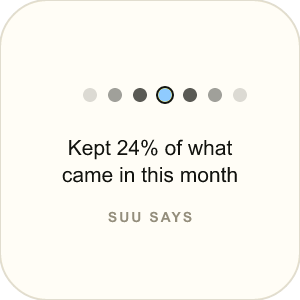
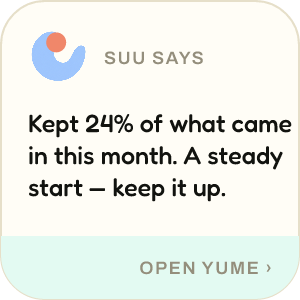
Calmer motion, cleaner meters and groups, new widget previews
- Content fades in once per screen instead of blinking on every reload.
- Today and budget meters: a soft filled track with a rounded fill.
- Activity: an open group's entries match the page (note, account,
  category dot, hairlines) instead of a grey band of account names.
- Reports: the Overview / Categories / Trends bar is removed.
- Widget picker previews redrawn in the Home style; the Suu widget's
  line now uses the full width.

diff --git a/app/(tabs)/reports.tsx b/app/(tabs)/reports.tsx
@@ -1,12 +1,5 @@
 import { useCallback, useEffect, useMemo, useRef, useState } from 'react';
-import {
-  View,
-  ScrollView,
-  Pressable,
-  LayoutChangeEvent,
-  NativeScrollEvent,
-  NativeSyntheticEvent,
-} from 'react-native';
+import { View, ScrollView, Pressable, LayoutChangeEvent } from 'react-native';
 import { Text } from '@/components/Text';
 import { router, useFocusEffect, useLocalSearchParams } from 'expo-router';
 import { useSafeAreaInsets } from 'react-native-safe-area-context';
@@ -42,7 +35,6 @@ import { parseLocalIsoDate, toLocalIsoDate, isIsoDate } from '@/lib/date';
 import { theme } from '@/constants/theme';
 import { ReportsSkeleton } from '@/features/reports/ReportsSkeleton';
 import { PeriodRow } from '@/features/reports/PeriodRow';
-import { JumpBar, ReportSection } from '@/features/reports/JumpBar';
 import { HeatmapCard } from '@/features/reports/HeatmapCard';
 import { StoryCards } from '@/features/reports/StoryCards';
 import { CategoryMosaic } from '@/features/reports/CategoryMosaic';
@@ -60,6 +52,7 @@ import {
   patternFacts,
   quietDays,
   buildStoryCards,
+  StoryTarget,
 } from '@/features/reports/reportsInsights';
 import { errorMessage } from '@/lib/errorMessage';
 import { withPressed } from '@/lib/pressed';
@@ -128,13 +121,12 @@ export default function ReportsScreen() {
   // months never leaves a stale month's list expanded.
   const [catExpanded, setCatExpanded] = useState(false);
 
-  // The jump bar below (Overview / Categories / Trends) — `sectionY` is
+  // Where each section starts, for the story cards that jump to one —
   // filled in by each section's own onLayout, not measured up front, since
   // heights here depend on real data (how many categories, whether the
   // moon card even renders this period).
   const scrollRef = useRef<ScrollView>(null);
   const sectionY = useRef<Record<string, number>>({});
-  const [activeSection, setActiveSection] = useState<ReportSection>('overview');
   // react-hooks/refs misreads this: calling onSectionLayout(key) in render
   // only *builds* the onLayout handler — the ref is written inside it, when
   // layout fires, never during render.
@@ -142,34 +134,8 @@ export default function ReportsScreen() {
     // eslint-disable-next-line react-hooks/refs
     sectionY.current[key] = e.nativeEvent.layout.y;
   };
-  // A tap-to-jump animates the scroll over ~300ms, and onScroll keeps firing
-  // throughout that animation with every intermediate position it passes
-  // through on the way — left unguarded, the chip you just tapped would
-  // flicker through whichever section happens to scroll by mid-animation
-  // before landing on the right one. This suppresses onScroll's own
-  // recompute for as long as a jump is in flight, so the tapped chip stays
-  // lit the whole time instead of visibly flickering through the others.
-  const jumpingRef = useRef(false);
-  const jumpTo = (key: ReportSection) => {
-    jumpingRef.current = true;
-    setActiveSection(key);
+  const jumpTo = (key: StoryTarget) => {
     scrollRef.current?.scrollTo({ y: Math.max(0, (sectionY.current[key] ?? 0) - 8), animated: true });
-    setTimeout(() => {
-      jumpingRef.current = false;
-    }, 500);
-  };
-  // Whichever section's top has scrolled past (with a little lead-in so the
-  // switch feels like it happens as that section arrives, not once it's
-  // already filled the screen) is the active one — checked in layout order
-  // so a section further down never wins over one still above it.
-  const onScroll = (e: NativeSyntheticEvent<NativeScrollEvent>) => {
-    if (jumpingRef.current) return;
-    const y = e.nativeEvent.contentOffset.y;
-    let current: ReportSection = 'overview';
-    for (const key of ['overview', 'categories', 'trends'] as const) {
-      if (y >= (sectionY.current[key] ?? Infinity) - 60) current = key;
-    }
-    setActiveSection(current);
   };
 
   // Only the most recent load may write state — stepping periods quickly
@@ -227,17 +193,11 @@ export default function ReportsScreen() {
 
   const catById = useMemo(() => new Map(categories.map((c) => [c.id, c])), [categories]);
 
-  // Pinned (outside the ScrollView, not scrolled away) rather than the
-  // jump bar living inline in the scrolling content — it stays reachable
-  // and keeps showing which section you're in no matter how far down
-  // you've scrolled, not just at the top of the page.
+  // Pinned outside the ScrollView, so the period stays in reach however far down you scroll.
   const header = (
     <>
       <AppHeader title="Reports" />
       <PeriodRow cursor={cursor} onChange={stepCursor} />
-      {comparison && comparison.current.expenseMinor > 0 && (
-        <JumpBar active={activeSection} onJump={jumpTo} />
-      )}
     </>
   );
 
@@ -331,8 +291,6 @@ export default function ReportsScreen() {
       {header}
       <ScrollView
         ref={scrollRef}
-        onScroll={onScroll}
-        scrollEventThrottle={32}
         contentContainerStyle={{
           paddingHorizontal: 20,
           paddingBottom: theme.layout.tabScreenScrollPad + insets.bottom,

diff --git a/src/widgets/SuuWidget.tsx b/src/widgets/SuuWidget.tsx
@@ -3,15 +3,18 @@ import { WidgetShell, WidgetLabel } from './WidgetShell';
 import { widgetColor, widgetTint, asWidgetColor, WIDGET_FONT, WIDGET_RADIUS } from './widgetTheme';
 import type { SuuWidgetData } from './data';
 
-const SUU = 40;
+const SUU = 30;
 const DOT = Math.round(SUU * 0.33);
 
 /**
  * "Suu Check-in" — the 2×2 widget (the Home A widgets sign-off): Suu itself
  * — the same ring image and one theme-coloured dot the app draws (see
- * SuuIllustration) — beside Suu's line (`suuLine()`: a savings nudge, a
- * spend-up warning, or a top-growing category), over a footer in the pack's
- * second colour, like the Suu strip on Home's month card. Taps open Home.
+ * SuuIllustration) — with "Suu says" beside it, then Suu's line
+ * (`suuLine()`: a savings nudge, a spend-up warning, or a top-growing
+ * category) across the widget's full width, over a footer in the pack's
+ * second colour, like the Suu strip on Home's month card. The line gets the
+ * whole width because beside Suu, in a 2×2, it only had room for a word or
+ * two per line. Taps open Home.
  */
 export function SuuWidget({ line, dot, secondary }: SuuWidgetData) {
   return (
@@ -21,44 +24,46 @@ export function SuuWidget({ line, dot, secondary }: SuuWidgetData) {
           flex: 1,
           height: 0,
           width: 'match_parent',
-          flexDirection: 'row',
+          flexDirection: 'column',
           padding: 14,
           paddingBottom: 8,
         }}
       >
-        <OverlapWidget style={{ width: SUU, height: SUU }}>
-          <ImageWidget image={require('../../assets/suu-ring.png')} imageWidth={SUU} imageHeight={SUU} />
-          <FlexWidget
-            style={{
-              width: DOT,
-              height: DOT,
-              borderRadius: DOT / 2,
-              backgroundColor: asWidgetColor(dot),
-              marginLeft: Math.round(SUU * 0.47 - DOT / 2),
-              marginTop: Math.round(SUU * 0.24 - DOT / 2),
-            }}
-          />
-        </OverlapWidget>
-        <FlexWidget style={{ width: 9, height: 1 }} />
-        <FlexWidget style={{ flex: 1, width: 0 }}>
-          <TextWidget
-            text={line.text}
-            maxLines={5}
-            truncate="END"
-            style={{
-              fontFamily: WIDGET_FONT.roundedMedium,
-              fontSize: 12.5,
-              lineHeight: 16,
-              color: widgetColor.ink,
-            }}
-          />
+        <FlexWidget style={{ flexDirection: 'row', alignItems: 'center' }}>
+          <OverlapWidget style={{ width: SUU, height: SUU }}>
+            <ImageWidget image={require('../../assets/suu-ring.png')} imageWidth={SUU} imageHeight={SUU} />
+            <FlexWidget
+              style={{
+                width: DOT,
+                height: DOT,
+                borderRadius: DOT / 2,
+                backgroundColor: asWidgetColor(dot),
+                marginLeft: Math.round(SUU * 0.47 - DOT / 2),
+                marginTop: Math.round(SUU * 0.24 - DOT / 2),
+              }}
+            />
+          </OverlapWidget>
+          <FlexWidget style={{ width: 8, height: 1 }} />
+          <WidgetLabel text="Suu says" />
         </FlexWidget>
+        <TextWidget
+          text={line.text}
+          maxLines={4}
+          truncate="END"
+          style={{
+            fontFamily: WIDGET_FONT.roundedMedium,
+            fontSize: 12.5,
+            lineHeight: 16,
+            color: widgetColor.ink,
+            marginTop: 8,
+          }}
+        />
       </FlexWidget>
       <FlexWidget
         style={{
           width: 'match_parent',
           flexDirection: 'row',
-          justifyContent: 'space-between',
+          justifyContent: 'flex-end',
           alignItems: 'center',
           paddingHorizontal: 14,
           paddingVertical: 8,
@@ -67,8 +72,7 @@ export function SuuWidget({ line, dot, secondary }: SuuWidgetData) {
           borderBottomRightRadius: WIDGET_RADIUS - 1,
         }}
       >
-        <WidgetLabel text="Suu says" color={widgetColor.inkSoft} />
-        <WidgetLabel text="Open ›" color={widgetColor.inkSoft} />
+        <WidgetLabel text="Open Yume ›" color={widgetColor.inkSoft} />
       </FlexWidget>
     </WidgetShell>
   );

diff --git a/src/features/transactions/TimelineDay.tsx b/src/features/transactions/TimelineDay.tsx
@@ -150,20 +150,32 @@ export function TimelineDay({
           <Amount type={type} minor={line.totalMinor} />
         </Pressable>
         {open && (
-          <View style={styles.subList}>
+          <View>
             {line.items.map((tx) => {
-              const label = isSplit ? categoryName(tx.categoryId) : tx.note || accountName(tx.accountId);
+              // A split's part is its category; a stack's entry is its note (they
+              // all share the category already named above), with its account under it.
+              const partCat = isSplit ? categoriesById.get(tx.categoryId ?? '') : cat;
+              const label = isSplit ? categoryName(tx.categoryId) : tx.note || 'No note';
               return (
-                <MovingRow key={tx.id}>
+                <MovingRow key={tx.id} style={styles.divider}>
                   <Pressable
                     onPress={() => onPressTx(tx)}
                     style={withPressed(styles.subLine)}
                     accessibilityRole="button"
                     accessibilityLabel={`${isSplit ? label : name}${!isSplit && tx.note ? `, ${tx.note}` : ''}, ${formatMoney(tx.amountMinor)}`}
                   >
-                    <Text style={styles.subName} numberOfLines={1}>
-                      {label}
-                    </Text>
+                    <View
+                      style={[styles.subDot, { backgroundColor: partCat?.color ?? theme.colors.borderSoft }]}
+                    />
+                    <View style={styles.mid}>
+                      <Text style={[styles.name, !isSplit && !tx.note && styles.subNoNote]} numberOfLines={1}>
+                        {label}
+                      </Text>
+                      <Text style={styles.sub} numberOfLines={1}>
+                        {isSplit && tx.note ? `${tx.note} · ` : ''}
+                        {accountName(tx.accountId)}
+                      </Text>
+                    </View>
                     <Amount type={tx.type} minor={tx.amountMinor} />
                   </Pressable>
                 </MovingRow>
@@ -271,16 +283,18 @@ const styles = StyleSheet.create({
   amount: { fontFamily: theme.font.monoBold, fontSize: 12.5, color: theme.colors.textPrimary },
   income: { color: theme.colors.income },
   expense: { color: theme.colors.expense },
-  subList: { backgroundColor: theme.colors.surfaceAlt },
+  // An open stack's entries: the same card, hairlines and text as every other
+  // line, each with a dot in its category's colour under the stack's icon.
   subLine: {
     flexDirection: 'row',
     alignItems: 'center',
     gap: 10,
-    // Lines up with the stack's name: row padding + icon + gap.
-    paddingLeft: 14 + 30 + 10,
+    // The dot centred under the stack's 30px icon: row padding + (30 − 8) / 2.
+    paddingLeft: 14 + 11,
     paddingRight: 14,
     paddingVertical: 8,
-    minHeight: 36,
+    minHeight: 48,
   },
-  subName: { flex: 1, fontFamily: theme.font.body, fontSize: 12, color: theme.colors.textSecondary },
+  subDot: { width: 8, height: 8, borderRadius: 4, marginRight: 11 },
+  subNoNote: { fontFamily: theme.font.body, color: theme.colors.textMuted },
 });

diff --git a/src/lib/useFadeIn.ts b/src/lib/useFadeIn.ts
@@ -3,25 +3,25 @@ import { Animated } from 'react-native';
 import { DURATIONS } from './motionTimings';
 
 /**
- * A short fade + slight rise-in for a screen's content on mount/focus —
- * the one shared animation primitive for this, instead of each screen
- * hand-rolling its own Animated.Value plumbing.
+ * A short fade + slight rise-in for a screen's content, played once when the
+ * screen appears — the one shared animation primitive for this, instead of
+ * each screen hand-rolling its own Animated.Value plumbing.
+ *
+ * Once only, on purpose: it used to replay from invisible whenever the list
+ * it watched reloaded (every return to the screen, every added row), which
+ * read as the content blinking.
  */
-export function useFadeIn(deps: readonly unknown[] = []) {
+export function useFadeIn() {
   // Lazy state init (not useRef.current) so it reads as a plain value in render.
   const [value] = useState(() => new Animated.Value(0));
 
   useEffect(() => {
-    value.setValue(0);
     Animated.timing(value, {
       toValue: 1,
       duration: DURATIONS.enter,
       useNativeDriver: true,
     }).start();
-    // The caller's `deps` are the dependency list itself (they say when to
-    // replay the fade); `value` is a stable Animated.Value.
-    // eslint-disable-next-line react-hooks/exhaustive-deps
-  }, deps);
+  }, [value]);
 
   return {
     opacity: value,

diff --git a/src/features/reports/reports.styles.ts b/src/features/reports/reports.styles.ts
@@ -57,18 +57,6 @@ export const styles = StyleSheet.create({
   // The Overview/Categories/Trends jump bar — pinned in `header`, outside
   // the ScrollView, so it's reachable and shows the current section no
   // matter how far down the page you've scrolled.
-  jumpBar: { flexDirection: 'row', gap: 8, paddingHorizontal: 20, marginBottom: 14 },
-  jumpChip: {
-    paddingHorizontal: 13,
-    paddingVertical: 7,
-    borderRadius: theme.radius.pill,
-    backgroundColor: theme.colors.surface,
-    borderWidth: StyleSheet.hairlineWidth,
-    borderColor: theme.colors.borderSoft,
-  },
-  jumpChipOn: { backgroundColor: theme.colors.ink, borderColor: theme.colors.ink },
-  jumpChipText: { fontFamily: theme.font.bodyBold, fontSize: 11.5, color: theme.colors.textSecondary },
-  jumpChipTextOn: { color: theme.colors.surface },
 
   eyebrow: EYEBROW,
   big: {

diff --git a/src/components/LimitMeter.tsx b/src/components/LimitMeter.tsx
@@ -52,15 +52,15 @@ export function LimitMeter({
 }
 
 const styles = StyleSheet.create({
+  // A soft filled track with a rounded fill — no outline, which on a cream
+  // card read as an empty box with a square-ended bar inside it.
   track: {
     height: 7,
     borderRadius: theme.radius.pill,
-    backgroundColor: theme.colors.surface,
-    borderWidth: StyleSheet.hairlineWidth,
-    borderColor: theme.colors.borderSoft,
+    backgroundColor: theme.colors.surfaceAlt,
     overflow: 'hidden',
   },
-  fill: { height: '100%' },
+  fill: { height: '100%', borderRadius: theme.radius.pill },
   marker: {
     position: 'absolute',
     top: 0,

diff --git a/src/features/profile/YouSection.tsx b/src/features/profile/YouSection.tsx
@@ -75,7 +75,7 @@ export function YouSection() {
   const [hasLoans, setHasLoans] = useState(false);
   const [hasUntrackedAssetLoan, setHasUntrackedAssetLoan] = useState(false);
   const [addAccountVisible, setAddAccountVisible] = useState(false);
-  const accountsFadeStyle = useFadeIn([accounts]);
+  const accountsFadeStyle = useFadeIn();
 
   const loadYou = useCallback(async () => {
     const [accs, allAccs, txCountNow, loans, people, currency] = await Promise.all([

diff --git a/app/loans.tsx b/app/loans.tsx
@@ -42,7 +42,7 @@ export default function LoansScreen() {
   const [selectedLoan, setSelectedLoan] = useState<Loan | null>(null);
   const [payOnOpen, setPayOnOpen] = useState(false);
   const { pay: payLoanId } = useLocalSearchParams<{ pay?: string }>();
-  const listFadeStyle = useFadeIn([loans]);
+  const listFadeStyle = useFadeIn();
 
   const loadLoans = useCallback(async () => {
     const [list, progress] = await Promise.all([listLoans(), getLoanProgress()]);

diff --git a/app/add-transaction.tsx b/app/add-transaction.tsx
@@ -173,7 +173,7 @@ export default function AddTransactionScreen() {
   // Once you pick an account yourself, picking a category stops choosing one for you.
   const accountPickedByHand = useRef(false);
 
-  const listFade = useFadeIn([rows.length]);
+  const listFade = useFadeIn();
 
   const amountValue = evaluateAmount(expr);
   const amountMinor = amountValue === null ? 0 : toMinor(amountValue);

diff --git a/src/features/reports/ReportsScreen.test.tsx b/src/features/reports/ReportsScreen.test.tsx
@@ -151,9 +151,6 @@ describe('Reports screen', () => {
     const shown = texts(await render());
     expect(shown).toEqual(
       expect.arrayContaining([
-        'Overview',
-        'Categories',
-        'Trends',
         'Tap a day to see what went out',
         'Where it went',
         'Rent',
